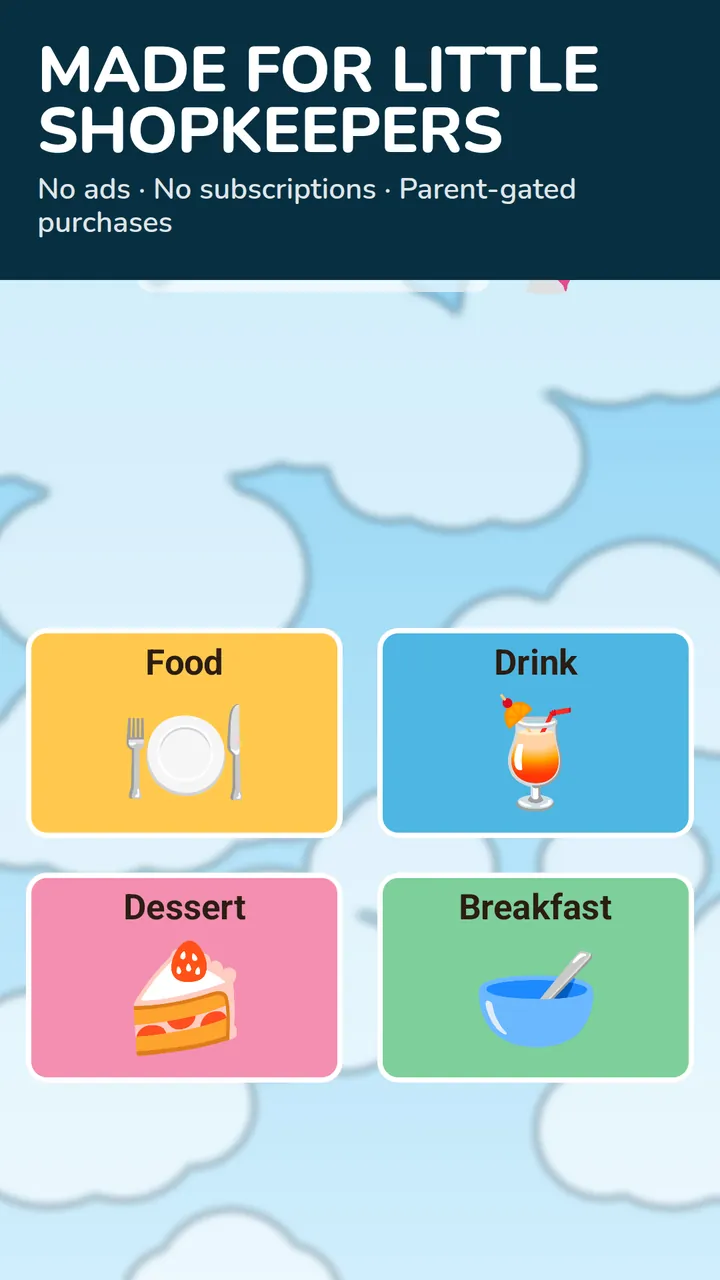
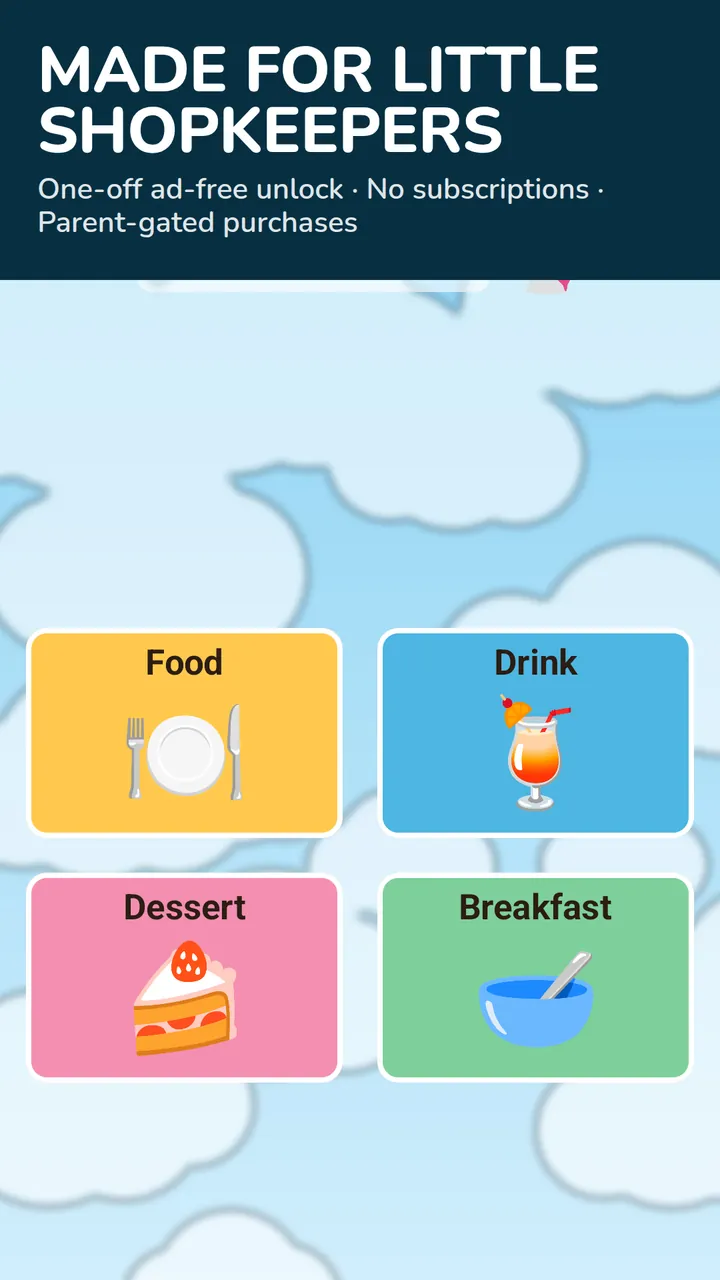
Restore Kids Pretend Shop ad wording for 1.4
1.4 still carries ads and the Remove Ads purchase; ad removal ships in
the next release. Put back the ad-free unlock card, drop the no-ads
line from the blurb, and use the 1.4 parents screenshot.

Changed region(s): [[0.0306, 0.125, 0.825, 0.1875]]

diff --git a/index.html b/index.html
@@ -123,7 +123,6 @@
         Kids love playing shop. Pretend Shop turns the device into their shop:
         take orders, fill the basket, watch the total add up, and "pay" at the till —
         big friendly buttons, fun sounds and a satisfying buzz on every tap.
-        No ads, no subscriptions — just imaginative play.
       </p>
 
       <ul class="features">
@@ -132,7 +131,7 @@
         <li><span aria-hidden="true">📲</span><strong>Tap to pay</strong>Hold two devices together for a pretend contactless payment.</li>
         <li><span aria-hidden="true">🥜</span><strong>What's in my food?</strong>Filter the menu by gluten, dairy, eggs or nuts. A gentle way in to talking about allergies.</li>
         <li><span aria-hidden="true">🦄</span><strong>Make it their shop</strong>They pick the name, the logo and the background.</li>
-        <li><span aria-hidden="true">🔒</span><strong>Made for little shopkeepers</strong>No ads, no subscriptions. The Cafe is free; one one-off purchase, behind a parent gate, unlocks the Toy Store and Sports Store.</li>
+        <li><span aria-hidden="true">🔒</span><strong>Made for little shopkeepers</strong>One-off ad-free unlock, no subscriptions, purchases behind a parent gate.</li>
       </ul>
 
       <div class="shots" role="group" aria-label="Kids Pretend Shop screenshots" tabindex="0">
@@ -143,7 +142,7 @@
         <img src="assets/shots/pretend-shop/05.webp" alt="The cafe, toy shop and sports shop side by side" width="720" height="1280" loading="lazy">
         <img src="assets/shots/pretend-shop/06.webp" alt="The allergy picker with dairy and nuts ticked, hiding 21 items from the menu" width="720" height="1280" loading="lazy">
         <img src="assets/shots/pretend-shop/07.webp" alt="Two customised shops — a cafe on a cloudy sky background and a sports store on bright blue" width="720" height="1280" loading="lazy">
-        <img src="assets/shots/pretend-shop/08.webp" alt="Made for little shopkeepers — no ads, no subscriptions and parent-gated purchases" width="720" height="1280" loading="lazy">
+        <img src="assets/shots/pretend-shop/08.webp" alt="Made for little shopkeepers — a one-off ad-free unlock, no subscriptions and parent-gated purchases" width="720" height="1280" loading="lazy">
       </div>
 
       <a class="badge" href="https://play.google.com/store/apps/details?id=com.byronludwig.pretendplay" rel="noopener">
